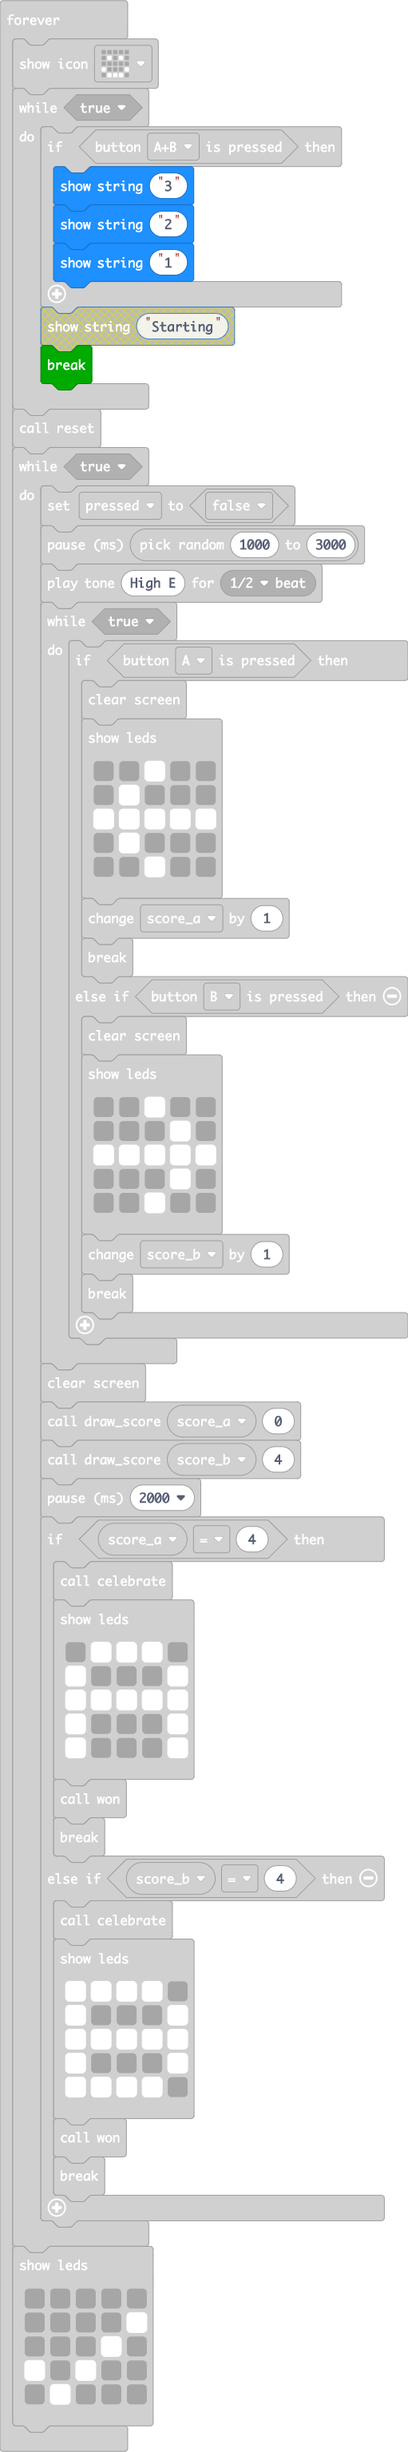
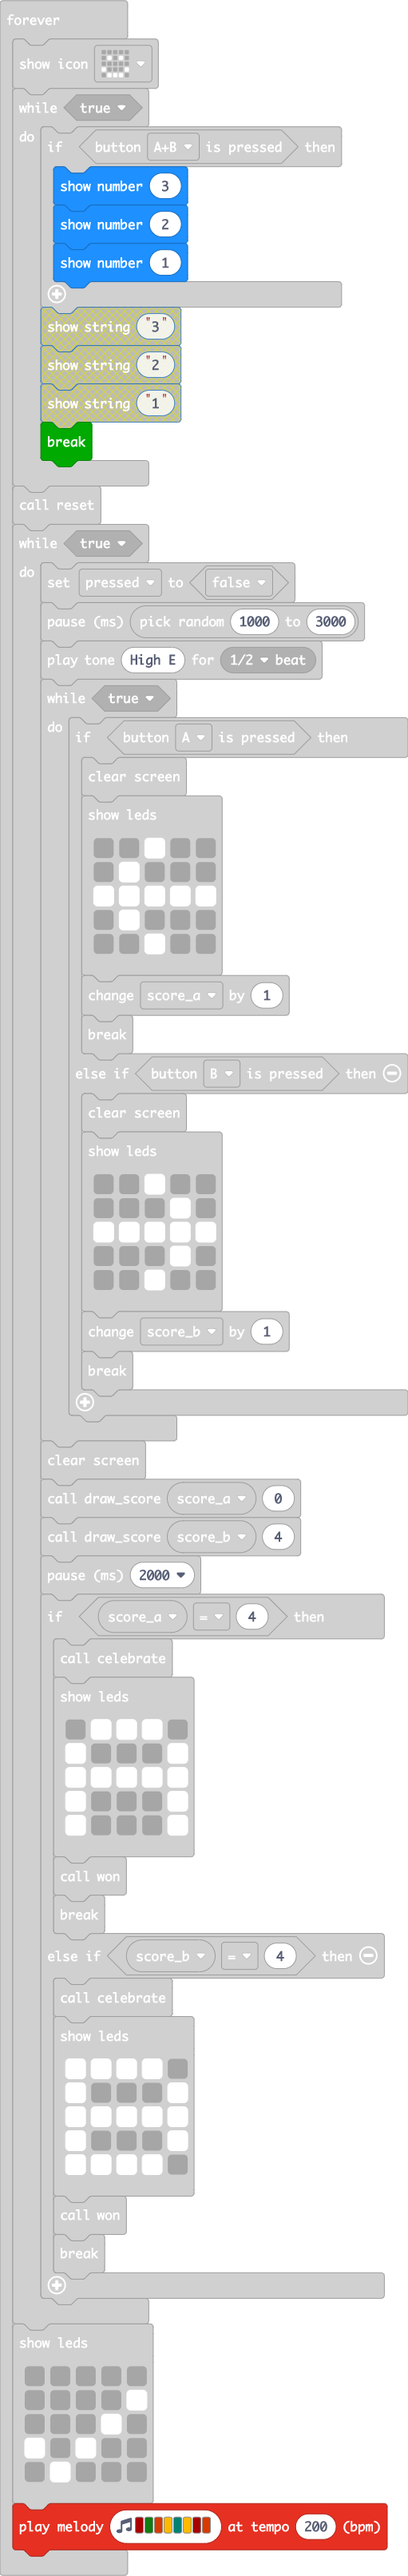
Melody

Changed region(s): [[0.0294, 0.0, 1.0, 1.0]]

diff --git a/main.ts b/main.ts
@@ -67,9 +67,9 @@ basic.forever(function () {
     basic.showIcon(IconNames.Happy)
     while (true) {
         if (input.buttonIsPressed(Button.AB)) {
-            basic.showString("3")
-            basic.showString("2")
-            basic.showString("1")
+            basic.showNumber(3)
+            basic.showNumber(2)
+            basic.showNumber(1)
             break;
         }
     }
@@ -138,4 +138,5 @@ basic.forever(function () {
         # . # . .
         . # . . .
         `)
+    music.playMelody("C5 G B A F A C5 B ", 200)
 })
